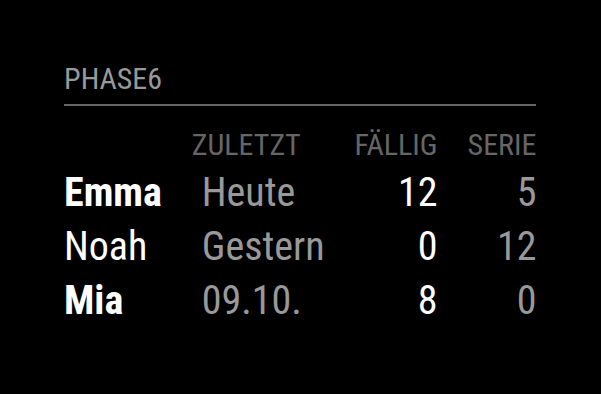
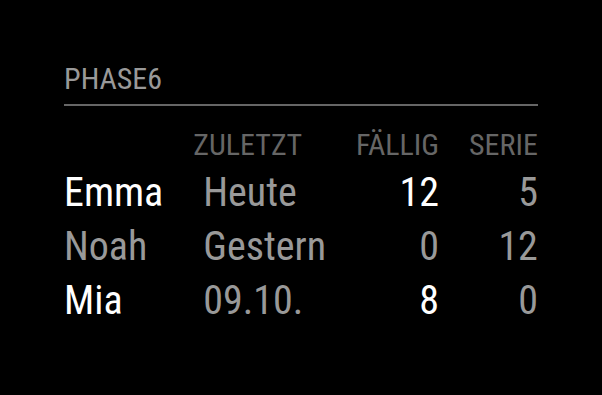
fix: show a profile bright only while words are due
Every name and its due vocabulary were bright, also with nothing due,
and a name was bold while vocabulary was due. Show the name and the
due vocabulary bright only while vocabulary is due, like the main
value of a row in the default modules of MagicMirror², and otherwise
in the normal text color of the table, like the other columns. Nothing
is bold any more, so the class p6-has-due goes.

The headers of the columns get their size and color from the classes
xsmall and dimmed of MagicMirror² instead of the style sheet, which
keeps the capitals and the layout. Replace the screenshot.

diff --git a/tests/module.test.js b/tests/module.test.js
@@ -140,19 +140,19 @@ test("shows another text of phase6 as it is", () => {
 	assert.deepEqual(dates([{ ...EMMA, lastLearned: "Heute, 15:25" }], "de"), ["Heute, 15:25"]);
 });
 
-test("shows the names and the due vocabulary bright", () => {
-	assert.deepEqual(bright(receive(createModule(), [EMMA, NOAH])), ["Emma", "29", "Noah", "0"]);
-});
-
-test("makes the names of the profiles with due vocabulary bold", () => {
+test("shows the name and the due vocabulary bright only while vocabulary is due", () => {
 	const dom = receive(createModule(), [EMMA, NOAH]);
-	assert.deepEqual(Array.from(dom.querySelectorAll("tr"), (row) => row.classList.contains("p6-has-due")), [false, true, false]);
+	assert.deepEqual(bright(dom), ["Emma", "29"]);
+	// Otherwise in the normal text color of the table, and the rows have no
+	// class of their own, e.g. none for a bold name
+	assert.equal(dom.querySelectorAll("td.normal, td.dimmed").length, 0);
+	assert.deepEqual(Array.from(dom.querySelectorAll("tr"), (row) => row.className), ["", "", ""]);
 });
 
 test("gives the cells of each column the same class, also the header", () => {
 	const dom = receive(createModule(), [EMMA]);
 	assert.deepEqual(Array.from(dom.querySelectorAll("tr"), (row) => Array.from(row.children, (cell) => `${cell.tagName} ${cell.className}`)), [
-		["TH p6-name", "TH p6-last", "TH p6-due", "TH p6-streak"],
+		["TH p6-name xsmall dimmed", "TH p6-last xsmall dimmed", "TH p6-due xsmall dimmed", "TH p6-streak xsmall dimmed"],
 		["TD p6-name bright", "TD p6-last", "TD p6-due bright", "TD p6-streak"]
 	]);
 });
@@ -169,13 +169,12 @@ test("shows a problem above the profiles of the last update that worked, dimmed 
 	assert.equal(warning(dom), "phase6 is not reachable (HTTP 503)");
 	assert.deepEqual(Array.from(dom.children, (element) => element.className), ["p6-warning", "p6-profiles p6-stale dimmed"]);
 	assert.equal(rows(dom).length, 3);
-	// Nothing bright, but a name stays bold while vocabulary is due
+	// Nothing bright, also while vocabulary is due
 	assert.deepEqual(bright(dom), []);
-	assert.deepEqual(Array.from(dom.querySelectorAll("tr"), (row) => row.classList.contains("p6-has-due")), [false, true, false]);
 	const again = receive(module, [EMMA, NOAH]);
 	assert.equal(warning(again), null);
 	assert.equal(again.querySelector("table").className, "p6-profiles");
-	assert.deepEqual(bright(again), ["Emma", "29", "Noah", "0"]);
+	assert.deepEqual(bright(again), ["Emma", "29"]);
 });
 
 test("shows only the problem if no profile matches", () => {

diff --git a/MMM-phase6.js b/MMM-phase6.js
@@ -82,24 +82,23 @@ Module.register("MMM-phase6", {
 		table.append(this.getRow("th", ["", this.translate("LAST_LEARNED"), this.translate("DUE"), this.translate("STREAK")]));
 		for (const profile of this.profiles) {
 			const row = this.getRow("td", [profile.name, this.formatDate(profile.lastLearned), String(profile.due), String(profile.streak)]);
-			// The name and the due vocabulary bright, unless they are stale
-			if (!stale) {
+			// The name and the due vocabulary bright while vocabulary is due,
+			// unless they are stale; otherwise they have the color of the table
+			if (profile.due > 0 && !stale) {
 				row.querySelectorAll(".p6-name, .p6-due").forEach((cell) => cell.classList.add("bright"));
-			}
-			// Bold while vocabulary is due, also while stale
-			if (profile.due > 0) {
-				row.classList.add("p6-has-due");
 			}
 			table.append(row);
 		}
 		return table;
 	},
 
+	// A row of the headers of the columns (th), small and dimmed, or of a
+	// profile (td)
 	getRow(tag, texts) {
 		const row = document.createElement("tr");
 		["p6-name", "p6-last", "p6-due", "p6-streak"].forEach((className, index) => {
 			const cell = document.createElement(tag);
-			cell.className = className;
+			cell.className = tag === "th" ? `${className} xsmall dimmed` : className;
 			// As text, not as HTML
 			cell.textContent = texts[index];
 			row.append(cell);

diff --git a/MMM-phase6.css b/MMM-phase6.css
@@ -19,17 +19,11 @@
   text-align: right;
 }
 
-/* The headers of the columns, like the header of a module */
+/* The headers of the columns in capitals like the header of a module, and
+   not bold like other th */
 .MMM-phase6 .p6-profiles th {
-  color: var(--color-text-dimmed);
-  font-size: var(--font-size-xsmall);
   font-weight: normal;
   text-transform: uppercase;
-}
-
-/* A name, bold while vocabulary is due */
-.MMM-phase6 .p6-has-due .p6-name {
-  font-weight: bold;
 }
 
 /* The problem wraps at the width of the region instead of widening it, but

diff --git a/README.md b/README.md
@@ -4,7 +4,7 @@ A [MagicMirror²](https://magicmirror.builders) module that shows how your child
 
 ![Emma, Noah and Mia with the day they last learned, their due words and their streak](screenshot.png)
 
-The module logs in to phase6 with your login and reads the page Meine Familie › Übersicht. A name is bold while words are due. The module is not from phase6 and may stop working when phase6 changes its website. Use it at your own risk, see the [terms of phase6](https://www.phase-6.de/agb.html).
+The module logs in to phase6 with your login and reads the page Meine Familie › Übersicht. A name and its due words are bright while words are due. The module is not from phase6 and may stop working when phase6 changes its website. Use it at your own risk, see the [terms of phase6](https://www.phase-6.de/agb.html).
 
 ## Installation
 
